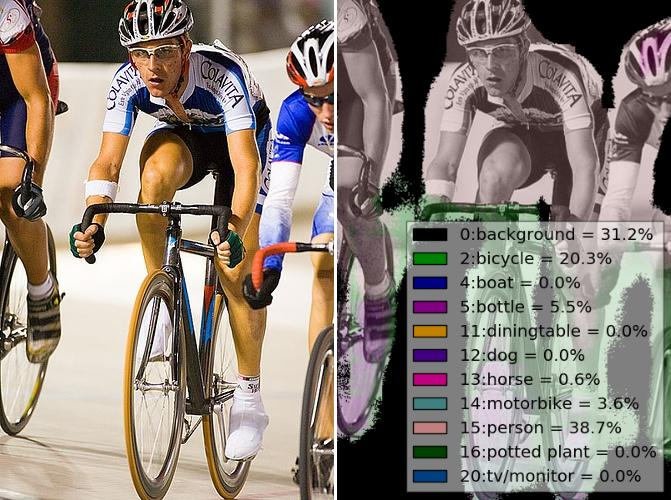
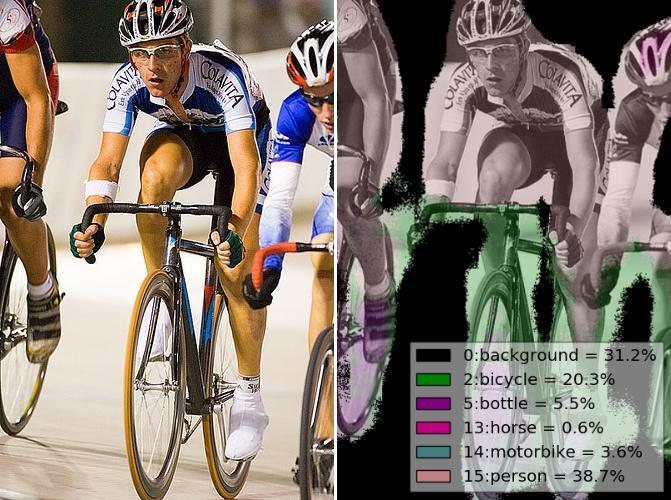
label whose region is smalll is skipped (under 0.1 %)

Changed region(s): [[0.5961, 0.42, 1.0, 0.99]]

diff --git a/fcn/util.py b/fcn/util.py
@@ -282,15 +282,20 @@ def draw_label(label, img, n_class, label_titles, bg_label=0):
     plt.gca().xaxis.set_major_locator(plt.NullLocator())
     plt.gca().yaxis.set_major_locator(plt.NullLocator())
     plt.axis('off')
+    # plot image
     plt.imshow(label_viz)
+    # plot legend
     plt_handlers = []
     plt_titles = []
-    for i, l in enumerate(np.unique(label)):
-        fc = cmap[l]
+    for label_value in np.unique(label):
+        if label_value not in label_titles:
+            continue
+        fc = cmap[label_value]
         p = plt.Rectangle((0, 0), 1, 1, fc=fc)
         plt_handlers.append(p)
-        plt_titles.append(label_titles[i])
+        plt_titles.append(label_titles[label_value])
     plt.legend(plt_handlers, plt_titles, loc='lower right', framealpha=0.5)
+    # convert plotted figure to np.ndarray
     f = StringIO.StringIO()
     plt.savefig(f, bbox_inches='tight', pad_inches=0)
     result_img_pil = Image.open(f)

diff --git a/scripts/fcn_forward.py b/scripts/fcn_forward.py
@@ -80,12 +80,14 @@ class Forwarding(object):
         # visualize result
         unique_labels, label_counts = np.unique(label, return_counts=True)
         print('- labels:')
-        label_titles = []
-        for i, l in enumerate(unique_labels):
-            l_region = label_counts[i] / label.size
+        label_titles = {}
+        for label_value, label_count in zip(unique_labels, label_counts):
+            label_region = label_count / label.size
+            if label_region < 0.001:
+                continue
             title = '{0}:{1} = {2:.1%}'.format(
-                l, self.target_names[l], l_region)
-            label_titles.append(title)
+                label_value, self.target_names[label_value], label_region)
+            label_titles[label_value] = title
             print('  - {0}'.format(title))
         result_img = fcn.util.draw_label(
             label, img, n_class=self.n_class, label_titles=label_titles)
